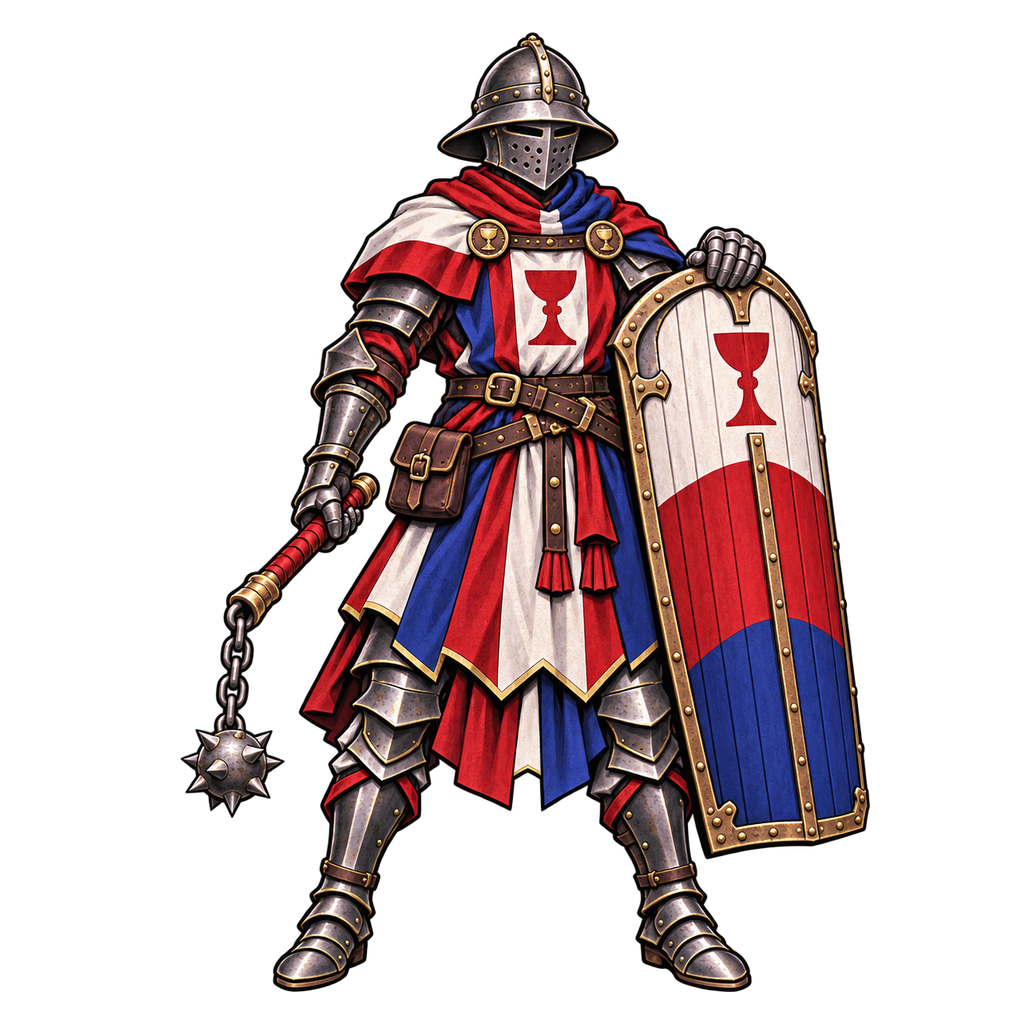
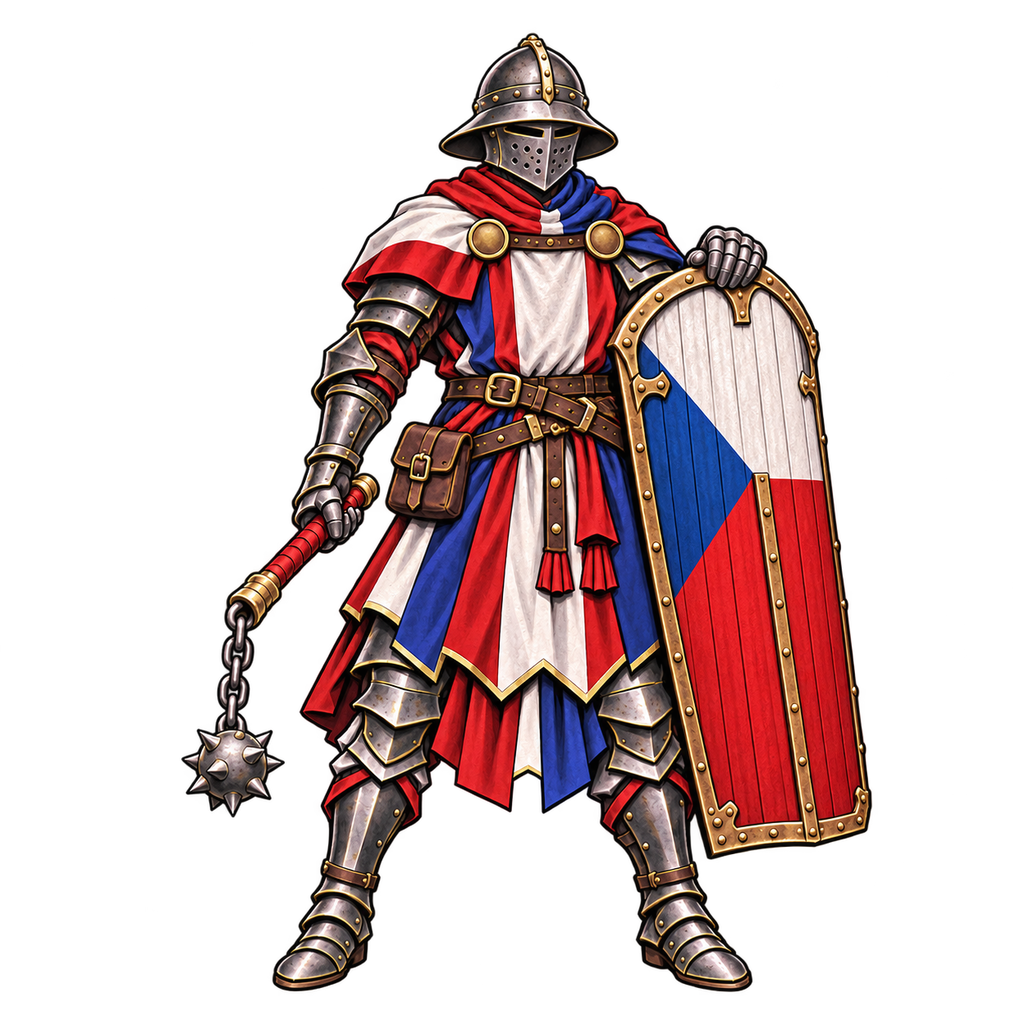
[팀장] 체코 장수 원본·전투용·동작 시트 재생성 (성배 문양 제거, 방패 국기 무늬)
Claude-Session: https://claude.ai/code/session_013M9CK2TidfikPKvmdBTiuk

Changed region(s): [[0.1875, 0.0312, 0.875, 0.9688]]

diff --git a/teams/2-디자인/gpt-art/fix-czechia/result-2.md b/teams/2-디자인/gpt-art/fix-czechia/result-2.md
@@ -1,0 +1,3 @@
+이미지 생성 기능으로 다시 만든 [sprite-czechia.png](/home/user/poki-game/teams/2-디자인/gpt-art/round4/sprite-czechia.png)를 덮어썼습니다. 생성본을 1024×1024로 맞추고 배경의 잔여 알파값을 정리했습니다.
+
+첫 첨부의 2.5등신 그림체와 자세를 기준으로, 방패에는 흰색 위칸·빨강 아래칸·왼쪽 파랑 삼각형을 적용하고 가슴은 두 번째 첨부처럼 무늬 없는 흰 천으로 표현했습니다. 성배, 종교 상징, 글자는 없으며 얼굴은 둥근 투구로 가려져 있습니다.

diff --git a/teams/2-디자인/gpt-art/fix-czechia/result-3.md b/teams/2-디자인/gpt-art/fix-czechia/result-3.md
@@ -1,0 +1,3 @@
+[sheet-czechia.png](/home/user/poki-game/teams/2-디자인/gpt-art/round5/sheet-czechia.png)를 이미지 생성으로 다시 만들어 덮어썼습니다.
+
+서기, 걷기 4단계, 공격 준비, 공격 순서로 256×256px 프레임 7개를 배치했습니다. 전체 크기는 1792×256px이며, 투명 배경과 공통 발 기준선을 확인했습니다. 전 프레임에 얼굴을 가린 투구와 체코 국기 방패를 적용하고 성배·종교 상징·글자를 제거했습니다.

diff --git a/teams/2-디자인/gpt-art/fix-czechia/result-1.md b/teams/2-디자인/gpt-art/fix-czechia/result-1.md
@@ -1,0 +1,3 @@
+[czechia.png](/home/user/poki-game/teams/2-디자인/gpt-art/round2/czechia.png)를 1024×1024 투명 PNG로 덮어썼습니다. 성배 문양을 제거하고, 방패에 위쪽 흰색·아래쪽 빨강·왼쪽 파란 삼각형을 적용했습니다. 얼굴은 투구로 가려져 있습니다.
+
+원본의 그림체와 구도를 최대한 맞췄으며, 갑옷과 옷의 세부 표현에는 생성 과정에서 약간의 차이가 생겼습니다.
